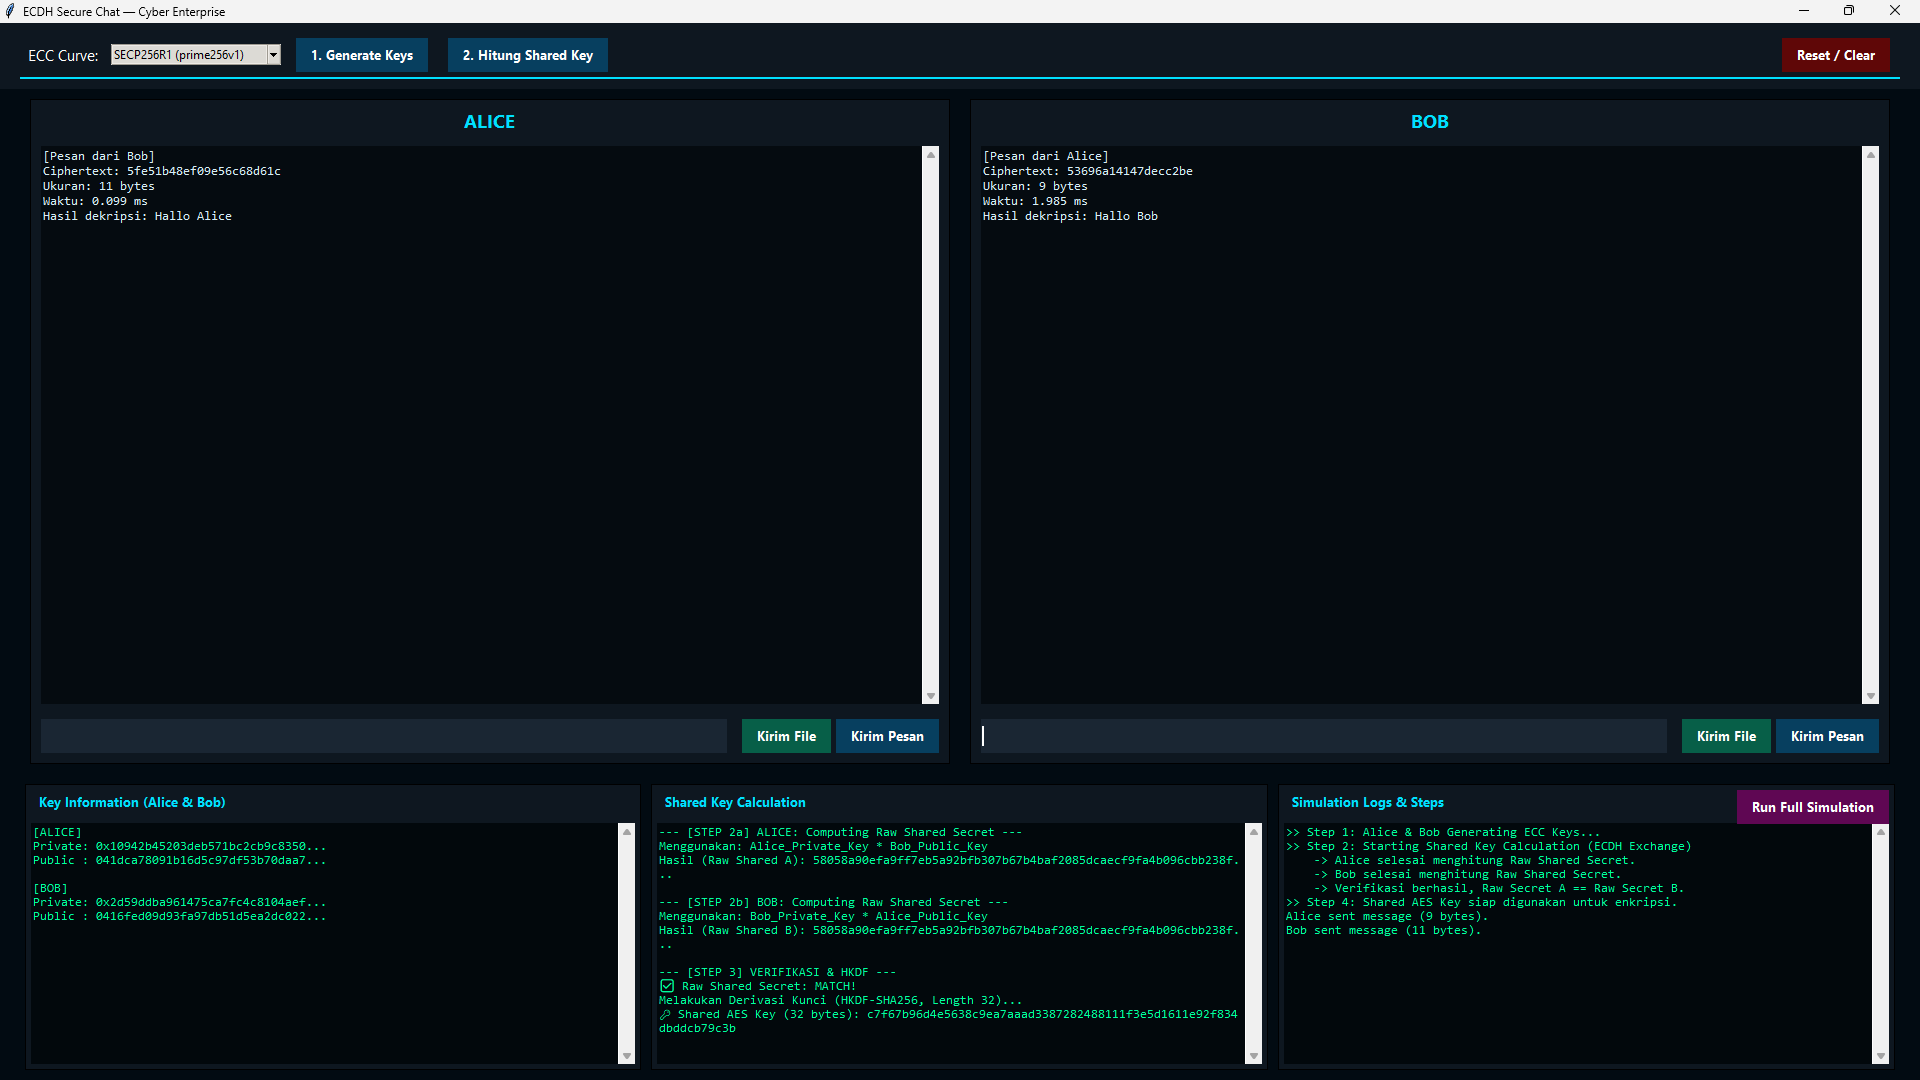
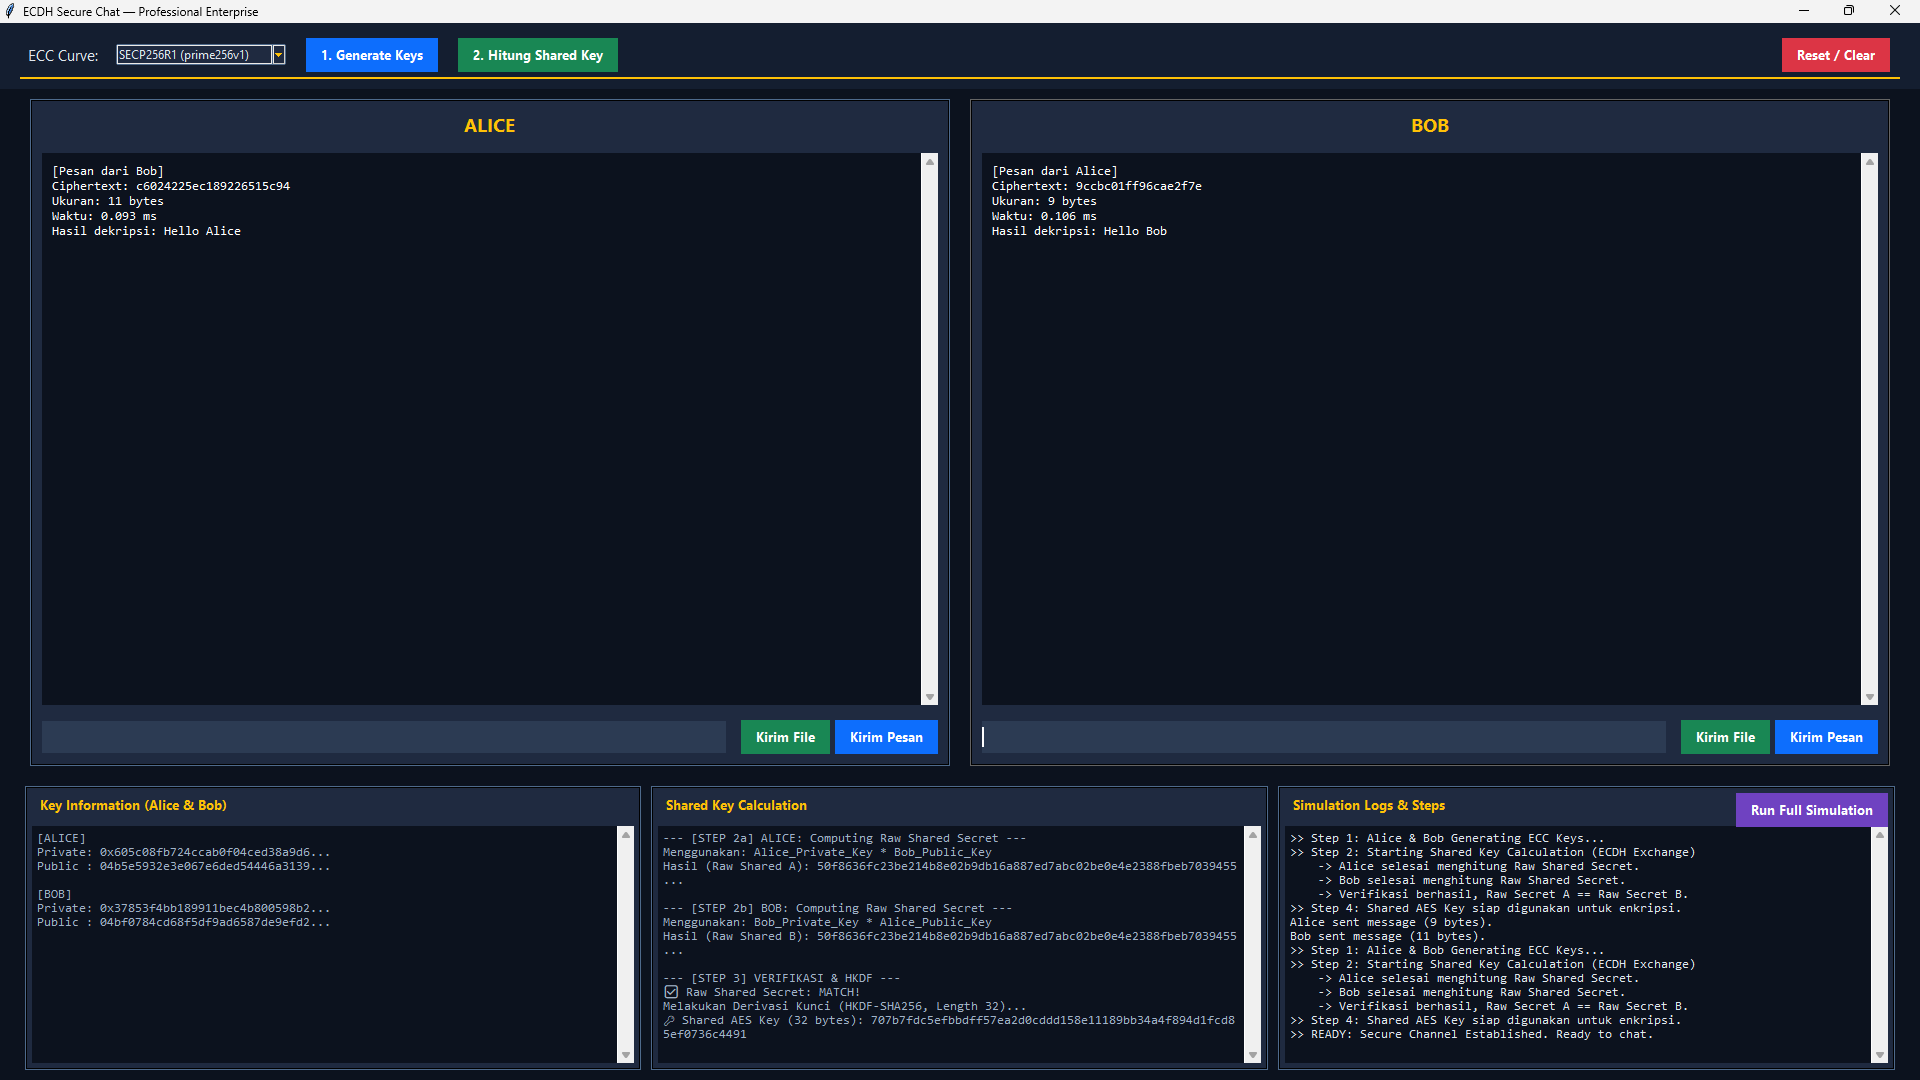
Refactor button classes and enhance UI styles; update README image reference

Changed region(s): [[0.0, 0.0, 1.0, 1.0]]

diff --git a/projek_kripto.py b/projek_kripto.py
@@ -26,16 +26,43 @@ os.makedirs(RECEIVED_DIR, exist_ok=True)
 # ======================================
 # CUSTOM WIDGETS
 # ======================================
-class CyberButton(tk.Button):
+class ProfessionalButton(tk.Button):
     def __init__(self, master, **kwargs):
-        bg_color = kwargs.pop('bg', "#073f5f")
-        hover_color = "#0a8fb0"
+        # Default colors
+        default_bg = kwargs.pop('bg', "#1f2a40") 
+        default_fg = kwargs.pop('fg', "white")
+        hover_color = "#3a4a68" 
+        active_color = "#2c3b53" 
+        
         super().__init__(master, **kwargs)
-        self.configure(bg=bg_color, fg="white", activebackground=hover_color, 
+        self.default_bg = default_bg
+        
+        self.configure(bg=default_bg, fg=default_fg, activebackground=active_color, 
                        activeforeground="white", bd=0, relief="flat", cursor="hand2",
                        font=("Segoe UI", 10, "bold"), padx=12, pady=5)
+        
+        # Binding hover effect
         self.bind("<Enter>", lambda e: self.config(bg=hover_color))
-        self.bind("<Leave>", lambda e: self.config(bg=bg_color))
+        self.bind("<Leave>", lambda e: self.config(bg=self.default_bg))
+
+class ChatSendButton(ProfessionalButton):
+    # Button with a subtle "send" animation effect (background pulse)
+    def __init__(self, master, **kwargs):
+        self.base_color = kwargs.pop('bg', "#0d6efd") # Warna dasar biru profesional
+        super().__init__(master, bg=self.base_color, **kwargs)
+        self.default_bg = self.base_color # Override default_bg for better control
+
+    def on_click_animation(self):
+        # Animasi pulsa singkat saat tombol ditekan
+        original_bg = self.base_color
+        pulse_color = "#3399ff"
+        
+        # Step 1: Pulse (brighten)
+        self.config(bg=pulse_color)
+        
+        # Step 2: Return to normal after a short delay
+        self.after(100, lambda: self.config(bg=original_bg))
+        self.after(100, lambda: self.config(bg=self.base_color)) # Ensure it returns to base
 
 # ======================================
 # APLIKASI UTAMA
@@ -43,7 +70,7 @@ class CyberButton(tk.Button):
 class ECDHChatApp:
     def __init__(self, root):
         self.root = root
-        root.title("ECDH Secure Chat — Cyber Enterprise")
+        root.title("ECDH Secure Chat — Professional Enterprise")
         
         # --- Full Screen Setup ---
         try:
@@ -51,14 +78,17 @@ class ECDHChatApp:
         except:
             root.attributes('-fullscreen', True) 
 
-        # --- Theme Colors ---
-        self.bg_top = "#051626"
-        self.bg_bottom = "#020b12"
-        self.card_bg = "#0e1720"
-        self.card_border = "#1c3a4f"
-        self.accent = "#00E0FF"
-        self.text_primary = "#d7eef6"
+        # --- Theme Colors (Professional Dark/Blue) ---
+        self.bg_top = "#141e30" # Header/Top Background (Dark Blue)
+        self.bg_bottom = "#0c121e" # Main Background (Slightly Darker)
+        self.card_bg = "#1f2a40" # Panel/Card Background (Blue Grey)
+        self.card_border = "#4e6a8c" # Border
+        self.accent = "#ffc107" # Professional Gold/Amber Accent
+        self.text_primary = "#e0e7ee" # Light Text
+        self.text_secondary = "#a0b2c8" # Secondary Text
         self.mono_font = ("Consolas", 10)
+        self.text_chat = "#ffffff" # White for chat logs
+        self.log_success = "#4CAF50" # Green for success logs
 
         # --- Main Layout ---
         root.configure(bg=self.bg_bottom)
@@ -75,45 +105,61 @@ class ECDHChatApp:
         self.shared_key = None
 
         # --- Build UI ---
+        self._setup_styles()
         self._build_header()
         self._build_chat_area()
         self._build_bottom_area()
-        self._setup_styles()
 
     def _setup_styles(self):
+        # Konfigurasi Ttk Styles
         style = ttk.Style()
         style.theme_use('clam')
-        style.configure("Cyber.Horizontal.TProgressbar", 
-                        troughcolor='#08131b', 
+        
+        # Combobox style
+        style.configure("TCombobox", 
+                        fieldbackground=self.card_bg, 
+                        background=self.card_bg, 
+                        foreground=self.text_primary, 
+                        selectbackground=self.accent, 
+                        selectforeground=self.card_bg,
+                        bordercolor=self.card_border,
+                        arrowcolor=self.accent)
+        style.map("TCombobox",
+                  fieldbackground=[('readonly', self.card_bg)])
+
+        # Progressbar style (Accent Gold)
+        style.configure("Professional.Horizontal.TProgressbar", 
+                        troughcolor='#333a4c', 
                         background=self.accent, 
                         bordercolor=self.card_border, 
                         lightcolor=self.accent, 
-                        darkcolor=self.accent)
+                        darkcolor=self.accent,
+                        thickness=10)
 
     # ----------------------------
     # UI: HEADER
     # ----------------------------
     def _build_header(self):
-        header_frame = tk.Frame(self.root, bg=self.card_bg, pady=10, padx=20)
+        header_frame = tk.Frame(self.root, bg=self.bg_top, pady=10, padx=20)
         header_frame.grid(row=0, column=0, sticky="ew")
         
         # Garis aksen bawah header
         tk.Frame(header_frame, bg=self.accent, height=2).pack(side="bottom", fill="x")
 
         # Container Tombol
-        ctrl_frame = tk.Frame(header_frame, bg=self.card_bg)
+        ctrl_frame = tk.Frame(header_frame, bg=self.bg_top)
         ctrl_frame.pack(side="top", fill="x", pady=5)
 
         # Dropdown Curve
-        tk.Label(ctrl_frame, text="ECC Curve:", bg=self.card_bg, fg="white", font=("Segoe UI", 11)).pack(side="left", padx=5)
-        self.curve_cb = ttk.Combobox(ctrl_frame, values=list(CURVE_MAP.keys()), state="readonly", width=25)
+        tk.Label(ctrl_frame, text="ECC Curve:", bg=self.bg_top, fg=self.text_primary, font=("Segoe UI", 11)).pack(side="left", padx=5)
+        self.curve_cb = ttk.Combobox(ctrl_frame, values=list(CURVE_MAP.keys()), state="readonly", width=25, style="TCombobox")
         self.curve_cb.current(0)
-        self.curve_cb.pack(side="left", padx=5)
+        self.curve_cb.pack(side="left", padx=10)
 
         # Tombol Aksi Utama
-        CyberButton(ctrl_frame, text="1. Generate Keys", command=self.generate_keys).pack(side="left", padx=10)
-        CyberButton(ctrl_frame, text="2. Hitung Shared Key", command=self.compute_shared).pack(side="left", padx=10)
-        CyberButton(ctrl_frame, text="Reset / Clear", command=self.reset_app, bg="#5f0707").pack(side="right", padx=10)
+        ProfessionalButton(ctrl_frame, text="1. Generate Keys", command=self.generate_keys, bg="#0d6efd").pack(side="left", padx=10)
+        ProfessionalButton(ctrl_frame, text="2. Hitung Shared Key", command=self.compute_shared, bg="#198754").pack(side="left", padx=10)
+        ProfessionalButton(ctrl_frame, text="Reset / Clear", command=self.reset_app, bg="#dc3545").pack(side="right", padx=10)
 
     # ----------------------------
     # UI: CHAT AREA (TENGAH)
@@ -138,30 +184,41 @@ class ECDHChatApp:
 
     def _create_user_panel(self, parent, name, col, send_cmd, file_cmd):
         # Frame Kartu
-        frame = tk.Frame(parent, bg=self.card_bg, bd=1, relief="solid")
+        frame = tk.Frame(parent, bg=self.card_bg, bd=1, relief="solid", highlightbackground=self.card_border, highlightthickness=1)
         frame.grid(row=0, column=col, sticky="nsew", padx=10)
         
         # Judul User
-        tk.Label(frame, text=name, bg=self.card_bg, fg=self.accent, font=("Segoe UI", 14, "bold")).pack(pady=5)
+        tk.Label(frame, text=name, bg=self.card_bg, fg=self.accent, font=("Segoe UI", 14, "bold")).pack(pady=8)
         
         # Area Chat Log (Output)
-        log = scrolledtext.ScrolledText(frame, bg="#050b10", fg=self.text_primary, 
-                                        insertbackground="white", font=self.mono_font, relief="flat")
+        log = scrolledtext.ScrolledText(frame, bg="#0c121e", fg=self.text_chat, 
+                                        insertbackground=self.accent, font=self.mono_font, relief="flat", bd=0, padx=10, pady=10)
         log.pack(fill="both", expand=True, padx=10, pady=5)
         
         # Area Input Pesan
         input_frame = tk.Frame(frame, bg=self.card_bg)
         input_frame.pack(fill="x", padx=10, pady=10)
         
-        entry = tk.Entry(input_frame, bg="#1a2633", fg="white", font=("Segoe UI", 11), relief="flat", insertbackground="white")
+        entry = tk.Entry(input_frame, bg="#2c3b53", fg="white", font=("Segoe UI", 11), relief="flat", insertbackground="white", bd=0)
         entry.pack(side="left", fill="x", expand=True, padx=(0, 10), ipady=5)
+#                                                            ^^^^^^^ Ditambahkan
         
-        # Tombol Kirim
-        CyberButton(input_frame, text="Kirim Pesan", command=send_cmd).pack(side="right")
-        CyberButton(input_frame, text="Kirim File", command=file_cmd, bg="#075f48").pack(side="right", padx=5)
+        # Tombol Kirim Pesan dengan animasi
+        send_btn = ChatSendButton(input_frame, text="Kirim Pesan", command=lambda: self.execute_and_animate(send_cmd, send_btn))
+        send_btn.pack(side="right")
+        
+        # Tombol Kirim File
+        ProfessionalButton(input_frame, text="Kirim File", command=file_cmd, bg="#198754").pack(side="right", padx=5)
 
         return {'log': log, 'input': entry}
 
+    def execute_and_animate(self, command_fn, button_widget):
+        # Run animation first
+        if isinstance(button_widget, ChatSendButton):
+            button_widget.on_click_animation()
+        # Then execute the command after a slight delay (or immediately if blocking is handled by process thread)
+        command_fn()
+        
     # ----------------------------
     # UI: BOTTOM INFO (BAWAH)
     # ----------------------------
@@ -174,28 +231,28 @@ class ECDHChatApp:
         bottom_frame.columnconfigure(2, weight=1)
         bottom_frame.rowconfigure(0, weight=1)
 
-        # Kolom 1: Key Info
-        self.panel_keys = self._create_info_panel(bottom_frame, "Key Information (Alice & Bob)", 0)
+        # Kolom 1: Key Info (Warna Sekunder/Detail)
+        self.panel_keys = self._create_info_panel(bottom_frame, "Key Information (Alice & Bob)", 0, self.text_secondary)
         
-        # Kolom 2: Shared Key 
-        self.panel_shared = self._create_info_panel(bottom_frame, "Shared Key Calculation", 1)
+        # Kolom 2: Shared Key (Menggunakan Warna Sekunder untuk Detail Log, menghilangkan definisi yang duplikat)
+        self.panel_shared = self._create_info_panel(bottom_frame, "Shared Key Calculation", 1, self.text_secondary)
 
-        # Kolom 3: Simulasi Log
-        self.panel_sim = self._create_info_panel(bottom_frame, "Simulation Logs & Steps", 2)
+        # Kolom 3: Simulasi Log (Warna Primer/Utama)
+        self.panel_sim = self._create_info_panel(bottom_frame, "Simulation Logs & Steps", 2, self.text_primary)
         
         # Tombol Auto Simulation di panel kanan
         btn_frame = tk.Frame(self.panel_sim['frame'], bg=self.card_bg)
         btn_frame.place(relx=1.0, rely=0.0, anchor="ne", x=-5, y=5)
-        CyberButton(btn_frame, text="Run Full Simulation", command=self.run_full_simulation, bg="#5f0753").pack()
+        ProfessionalButton(btn_frame, text="Run Full Simulation", command=self.run_full_simulation, bg="#6f42c1").pack()
 
-    def _create_info_panel(self, parent, title, col):
-        container = tk.Frame(parent, bg=self.card_bg, bd=1, relief="solid")
+    def _create_info_panel(self, parent, title, col, text_color):
+        container = tk.Frame(parent, bg=self.card_bg, bd=1, relief="solid", highlightbackground=self.card_border, highlightthickness=1)
         container.grid(row=0, column=col, sticky="nsew", padx=5)
         
         tk.Label(container, text=title, bg=self.card_bg, fg=self.accent, font=("Segoe UI", 10, "bold")).pack(anchor="w", padx=10, pady=5)
         
-        text_area = scrolledtext.ScrolledText(container, bg="#02080c", fg="#00ff9d", 
-                                              font=("Consolas", 9), relief="flat", height=10)
+        text_area = scrolledtext.ScrolledText(container, bg="#0c121e", fg=text_color, 
+                                              font=("Consolas", 9), relief="flat", height=10, bd=0, padx=5, pady=5)
         text_area.pack(fill="both", expand=True, padx=5, pady=5)
         return {'text': text_area, 'frame': container}
 
@@ -237,7 +294,6 @@ class ECDHChatApp:
         
         # ----------------------------------------------
         # STEP 2a: ALICE CALCULATES SHARED SECRET
-        # Alice menggunakan Private Key-nya dan Public Key Bob
         # ----------------------------------------------
         self.log_to_panel(self.panel_shared, "--- [STEP 2a] ALICE: Computing Raw Shared Secret ---")
         self.log_to_panel(self.panel_shared, "Menggunakan: Alice_Private_Key * Bob_Public_Key")
@@ -248,7 +304,6 @@ class ECDHChatApp:
 
         # ----------------------------------------------
         # STEP 2b: BOB CALCULATES SHARED SECRET
-        # Bob menggunakan Private Key-nya dan Public Key Alice
         # ----------------------------------------------
         self.log_to_panel(self.panel_shared, "\n--- [STEP 2b] BOB: Computing Raw Shared Secret ---")
         self.log_to_panel(self.panel_shared, "Menggunakan: Bob_Private_Key * Alice_Public_Key")
@@ -267,7 +322,6 @@ class ECDHChatApp:
             
             # ----------------------------------------------
             # STEP 4: DERIVASI KEY (HKDF)
-            # Mengubah Raw Shared Secret menjadi Key AES-256 (32 bytes)
             # ----------------------------------------------
             self.log_to_panel(self.panel_shared, "Melakukan Derivasi Kunci (HKDF-SHA256, Length 32)...")
             hkdf = HKDF(algorithm=hashes.SHA256(), length=32, salt=None, info=b"ECDH Chat")
@@ -339,7 +393,8 @@ class ECDHChatApp:
         tk.Label(top, text=task_name, bg=self.card_bg, fg=self.accent, font=("Segoe UI", 12, "bold")).pack(pady=15)
         lbl_status = tk.Label(top, text="Initializing...", bg=self.card_bg, fg="white", font=("Segoe UI", 10))
         lbl_status.pack(pady=5)
-        pb = ttk.Progressbar(top, style="Cyber.Horizontal.TProgressbar", orient="horizontal", length=300, mode="determinate")
+        # Use the new style for progress bar
+        pb = ttk.Progressbar(top, style="Professional.Horizontal.TProgressbar", orient="horizontal", length=300, mode="determinate")
         pb.pack(pady=10)
 
         def worker():
@@ -347,6 +402,7 @@ class ECDHChatApp:
                      ("Transmitting...", 80, 0.5), ("Decrypting & Verifying...", 100, 0.4)]
             for text, val, sleep_time in steps:
                 time.sleep(sleep_time)
+                # Update UI in the main thread
                 self.root.after(0, lambda t=text, v=val: update_ui(t, v))
             time.sleep(0.3)
             self.root.after(0, finish)
@@ -377,7 +433,7 @@ class ECDHChatApp:
             try:
                 dec = self.aes_decrypt(iv, ct, tag).decode()
             except Exception as e:
-                dec = "ERROR"
+                dec = "ERROR (Authentikasi Gagal)"
             t1 = time.perf_counter()
             duration_ms = (t1 - t0) * 1000
 
@@ -411,7 +467,7 @@ class ECDHChatApp:
             try:
                 dec = self.aes_decrypt(iv, ct, tag).decode()
             except:
-                dec = "ERROR"
+                dec = "ERROR (Authentikasi Gagal)"
             t1 = time.perf_counter()
             duration_ms = (t1 - t0) * 1000
 
@@ -442,21 +498,31 @@ class ECDHChatApp:
         
         def process():
             t0 = time.perf_counter()
-            with open(path, "rb") as f: data = f.read()
-            iv, ct, tag = self.aes_encrypt(data)
-            dec_data = self.aes_decrypt(iv, ct, tag)
-            t1 = time.perf_counter()
-            duration_ms = (t1 - t0) * 1000
+            try:
+                with open(path, "rb") as f: data = f.read()
+                iv, ct, tag = self.aes_encrypt(data)
+                dec_data = self.aes_decrypt(iv, ct, tag)
+                t1 = time.perf_counter()
+                duration_ms = (t1 - t0) * 1000
 
-            save_path = os.path.join(RECEIVED_DIR, f"bob_received_{filename}")
-            with open(save_path, "wb") as f: f.write(dec_data)
+                save_path = os.path.join(RECEIVED_DIR, f"bob_received_{filename}")
+                with open(save_path, "wb") as f: f.write(dec_data)
+                status_msg = f"Lokasi Simpan: {save_path}"
+                dec_size = len(dec_data)
+            except Exception as e:
+                t1 = time.perf_counter()
+                duration_ms = (t1 - t0) * 1000
+                ct = b""
+                dec_size = 0
+                status_msg = f"DEKRIPSI GAGAL: {e}"
 
             output_text = (
                 f"[FILE dari Alice]\n"
                 f"Nama File: {filename}\n"
                 f"Ukuran Terenkripsi: {len(ct)} bytes\n"
+                f"Ukuran Terdekripsi: {dec_size} bytes\n"
                 f"Waktu Proses: {duration_ms:.3f} ms\n"
-                f"Lokasi Simpan: {save_path}\n\n"
+                f"{status_msg}\n\n"
             )
             self.bob_chat_log.insert(tk.END, output_text)
             self.log_to_panel(self.panel_sim, f"Alice sent file: {filename}")
@@ -473,21 +539,31 @@ class ECDHChatApp:
         
         def process():
             t0 = time.perf_counter()
-            with open(path, "rb") as f: data = f.read()
-            iv, ct, tag = self.aes_encrypt(data)
-            dec_data = self.aes_decrypt(iv, ct, tag)
-            t1 = time.perf_counter()
-            duration_ms = (t1 - t0) * 1000
+            try:
+                with open(path, "rb") as f: data = f.read()
+                iv, ct, tag = self.aes_encrypt(data)
+                dec_data = self.aes_decrypt(iv, ct, tag)
+                t1 = time.perf_counter()
+                duration_ms = (t1 - t0) * 1000
 
-            save_path = os.path.join(RECEIVED_DIR, f"alice_received_{filename}")
-            with open(save_path, "wb") as f: f.write(dec_data)
+                save_path = os.path.join(RECEIVED_DIR, f"alice_received_{filename}")
+                with open(save_path, "wb") as f: f.write(dec_data)
+                status_msg = f"Lokasi Simpan: {save_path}"
+                dec_size = len(dec_data)
+            except Exception as e:
+                t1 = time.perf_counter()
+                duration_ms = (t1 - t0) * 1000
+                ct = b""
+                dec_size = 0
+                status_msg = f"DEKRIPSI GAGAL: {e}"
 
             output_text = (
                 f"[FILE dari Bob]\n"
                 f"Nama File: {filename}\n"
                 f"Ukuran Terenkripsi: {len(ct)} bytes\n"
+                f"Ukuran Terdekripsi: {dec_size} bytes\n"
                 f"Waktu Proses: {duration_ms:.3f} ms\n"
-                f"Lokasi Simpan: {save_path}\n\n"
+                f"{status_msg}\n\n"
             )
             self.alice_chat_log.insert(tk.END, output_text)
             self.log_to_panel(self.panel_sim, f"Bob sent file: {filename}")

diff --git a/README.md b/README.md
@@ -54,7 +54,7 @@ The application allows users to visualize each cryptographic step, including key
 
 > Example of the ECC Secure Chat Simulation Interface:
 
-![ECC Secure Chat Screenshot](images/dashboard_preview.png)
+![ECC Secure Chat Screenshot](images/Dashboard_Preview.png)
 
 ---
 
